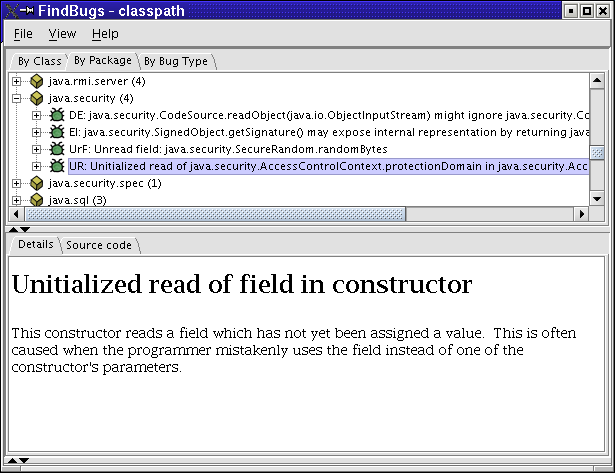
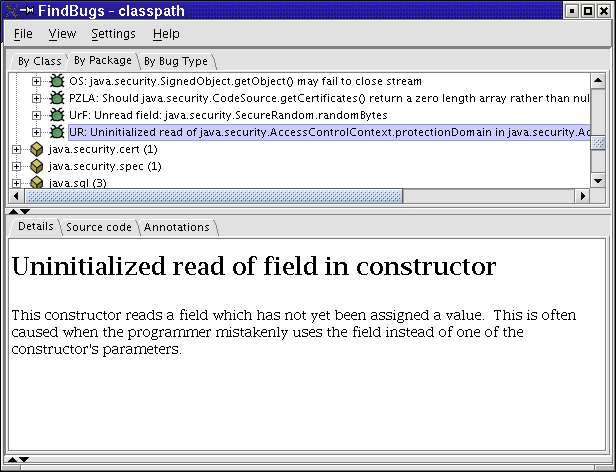
Documentation updates
git-svn-id: https://findbugs.googlecode.com/svn/trunk@1118 eae3c2d3-9b19-0410-a86e-396b6ccb6ab3

diff --git a/findbugs/src/doc/index.html b/findbugs/src/doc/index.html
@@ -52,6 +52,10 @@ invited talk, MASPLAS 2003
      null pointer might be dereferenced
 <li> New bug pattern detector which looks for IO streams that are opened,
      do not escape the method, and are not closed on all paths out of the method
+<li> New bug pattern detector to find methods that can return null instead
+     of a zero-length array
+<li> New bug pattern detector to find places where the == or != operators
+     are used to compare String objects
 <li> Command line interface can save bugs as XML
 <li> GUI can save bugs to and load bugs from XML
 <li> An "Annotations" window in the GUI allows the user to add
@@ -66,6 +70,7 @@ invited talk, MASPLAS 2003
      memory use and possibly improve performance
 <li> Improvements to command line interface (list bug priorities, filter by priority,
      specify aux classpath, specify project to analyze)
+<li> Various bug fixes and enhancements
 </ul>
 
 <p> <a href="Changes.html">Older versions...</a>
